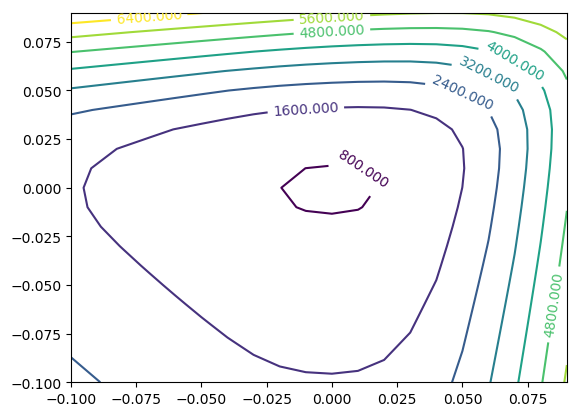
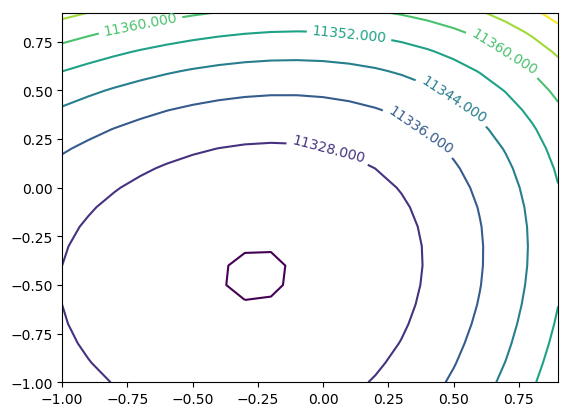
genX,Y accepts entire set

diff --git a/p2/digits.py b/p2/digits.py
@@ -8,8 +8,8 @@ M = loadmat("mnist_all.mat")
 
 #______________________________ PART 3 ______________________________#
 def part3():
-    X = genX(M, TRAIN, 100)
-    Y = genY(100)
+    X = genX(M, TRAIN)
+    Y = genY(M, TRAIN)
     W = np.random.rand(NUM_LABEL, NUM_FEAT)
     b = np.random.rand(NUM_LABEL, 1)
     P = forward(X, W, b)
@@ -46,34 +46,34 @@ def part3():
 def part4():
     def f(n):
         X = genX(M, TRAIN, n)
-        Y = genY(n)
+        Y = genY(M, TRAIN, n)
         W = np.zeros((NUM_LABEL, NUM_FEAT))
         b = np.zeros((NUM_LABEL, 1))
 
         W, b = gradDescent(X, Y, W, b, out=False)
 
-        X = genX(M, TEST, MAX_TEST_SIZE)
-        Y = genY(MAX_TEST_SIZE)
+        X = genX(M, TEST, 100)
+        Y = genY(M, TEST, 100)
         P = classify(X, Y, W, b)
         res = accuracy(P, Y)
 
         print "({}, {}) - point generated".format(n, res)
         return res
     
-    X = genX(M, TRAIN, MAX_TRAIN_SIZE)
-    Y = genY(MAX_TRAIN_SIZE)
+    X = genX(M, TRAIN)
+    Y = genY(M, TRAIN)
     W = np.zeros((NUM_LABEL, NUM_FEAT))
     b = np.zeros((NUM_LABEL, 1))
 
-    W, b = gradDescent(X, Y, W, b)
-    #W, b = loadObj("weights"), loadObj("bias")
+    #W, b = gradDescent(X, Y, W, b)
+    W, b = loadObj("weights"), loadObj("bias")
     #saveObj(W, "weights")
     #saveObj(b, "bias")
 
     for i in range(len(W)):
         heatmap(W[i], "pt4_weight_" + str(i))
 
-    x = np.arange(0, MAX_TRAIN_SIZE, 100)
+    x = np.arange(1, 100, 10)
     linegraph(f, x, "pt4_learning_curve")
     return
 
@@ -81,33 +81,33 @@ def part4():
 def part5():
     def f(n):
         X = genX(M, TRAIN, n)
-        Y = genY(n)
+        Y = genY(M, TRAIN, n)
         W = np.zeros((NUM_LABEL, NUM_FEAT))
         b = np.zeros((NUM_LABEL, 1))
 
         W, b = gradDescent(X, Y, W, b, momentum=True, out=False)
 
-        X = genX(M, TEST, MAX_TEST_SIZE)
-        Y = genY(MAX_TEST_SIZE)
+        X = genX(M, TEST, 100)
+        Y = genY(M, TEST, 100)
         P = classify(X, Y, W, b)
         res = accuracy(P, Y)
 
         print "({}, {}) - point generated".format(n, res)
         return res
 
-    x = np.arange(0, MAX_TRAIN_SIZE, 100)
+    x = np.arange(1, 100, 10)
     linegraph(f, x, "pt5_learning_curve")
     return
 
 #______________________________ PART 6 ______________________________#
 def part6a():
     X = genX(M, TRAIN, 500)
-    Y = genY(500)
+    Y = genY(M, TRAIN, 500)
     W = loadObj("weights")
     b = loadObj("bias")
 
-    w1s = np.arange(-0.1, 0.1, 0.01)
-    w2s = np.arange(-0.1, 0.1, 0.01)
+    w1s = np.arange(-1, 1, 0.1)
+    w2s = np.arange(-1, 1, 0.1)
     w1z, w2z = np.meshgrid(w1s, w2s)
 
     cost = np.zeros((w1s.size, w2s.size))

diff --git a/p2/NN.py b/p2/NN.py
@@ -18,14 +18,21 @@ def forward(X, W, b):
     i = np.ones((len(X), 1))
     return softmax(dot(X, W.T) + dot(i, b.T))
 
-def genX(M, keys, size):
-    X = np.array([M[key][:size] for key in keys])
-    return np.vstack(X)
+def genX(M, set, size=0):
+    if size:
+        X = np.array([M[set+str(i)][:size] for i in range(NUM_LABEL)])
+    else:
+        X = np.array([M[set+str(i)] for i in range(NUM_LABEL)])
+    X = np.vstack(X) / 255.
+    return X
 
-def genY(size):
+def genY(M, set, size=0):
     Y = np.empty((0, NUM_LABEL), float)
     for i in range(NUM_LABEL):
-        Y = np.vstack(( Y, np.tile(LABEL[i], (size, 1)) ))
+        if size:
+            Y = np.vstack(( Y, np.tile(LABEL[i], (size, 1)) ))
+        else:
+            Y = np.vstack(( Y, np.tile(LABEL[i], (len(M[set+str(i)]), 1)) ))
     return Y
 
 def classify(X, Y, W, b):

diff --git a/p2/const.py b/p2/const.py
@@ -8,15 +8,12 @@ NUM_FEAT = 784
 NUM_LABEL = 10
 IMG_SHAPE = (28, 28)
 
-MAX_TEST_SIZE = 850
-MAX_TRAIN_SIZE = 5000
-
 STEP = 100
 EPS = 1e-5
 GAMMA = 0.99
-ALPHA = 1e-9
+ALPHA = 0.001
 MAX_ITER = 10000
 
+TEST = "test"
+TRAIN = "train"
 LABEL = np.identity(10)
-TEST = ('test0', 'test1', 'test2', 'test3', 'test4', 'test5', 'test6', 'test7', 'test8', 'test9')
-TRAIN = ('train0', 'train1', 'train2', 'train3', 'train4', 'train5', 'train6', 'train7', 'train8', 'train9')
